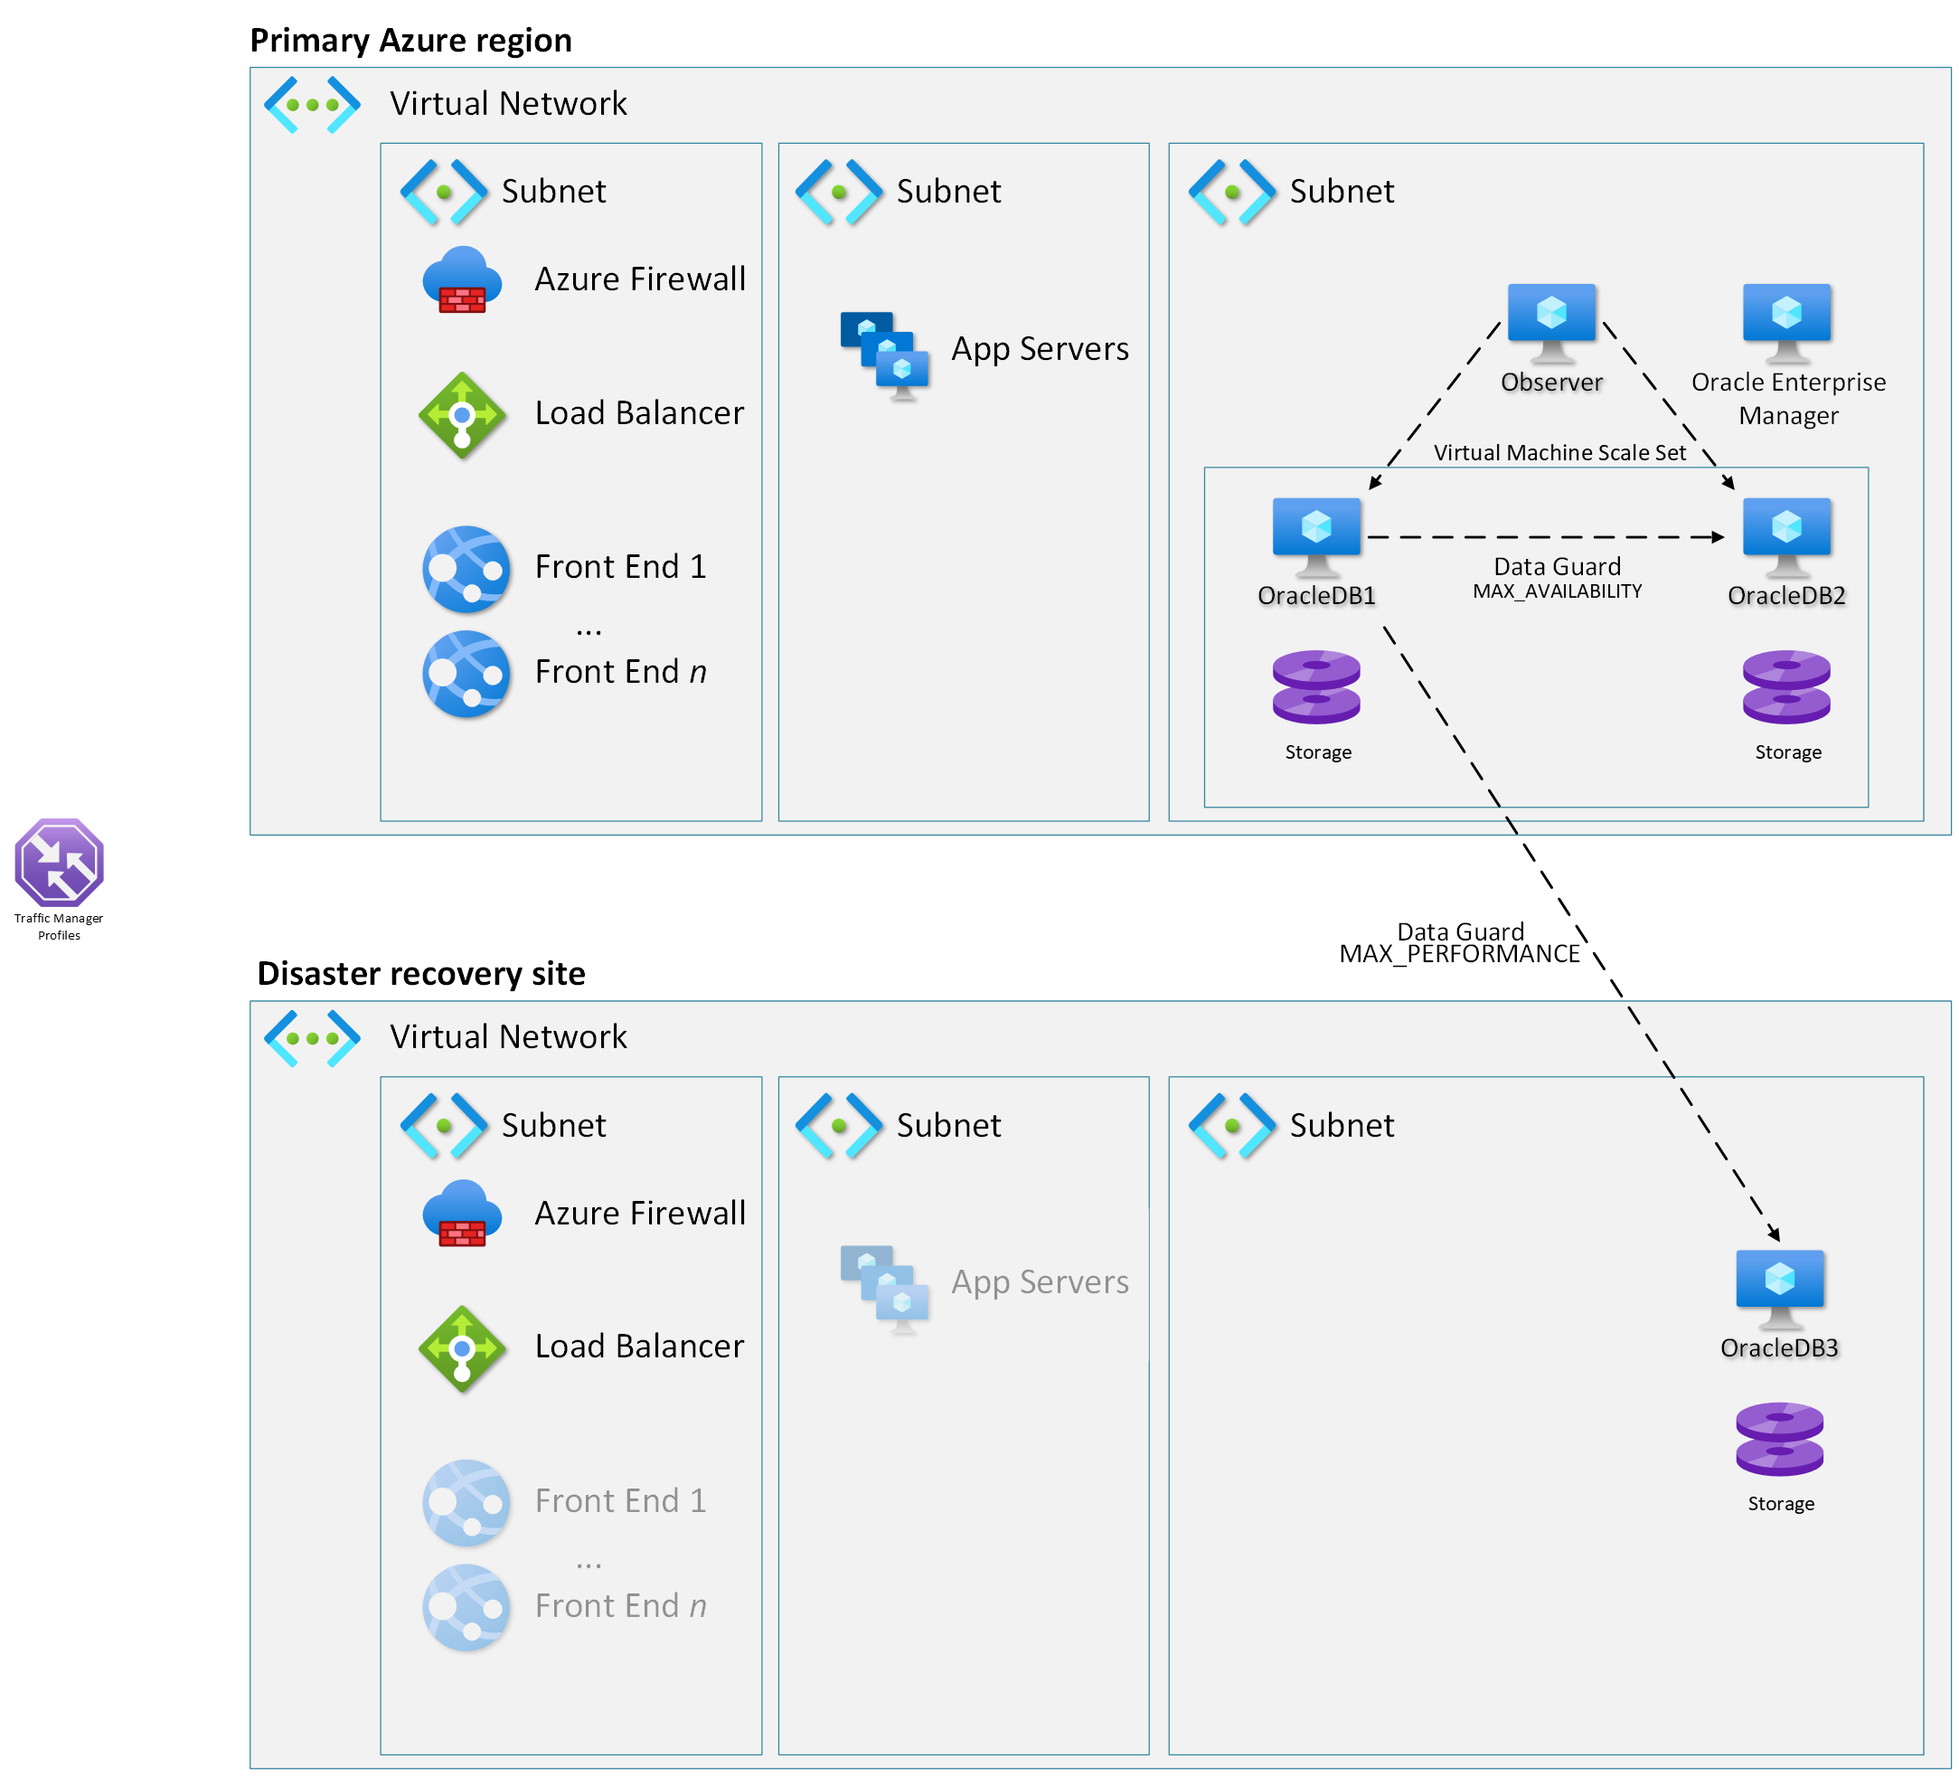
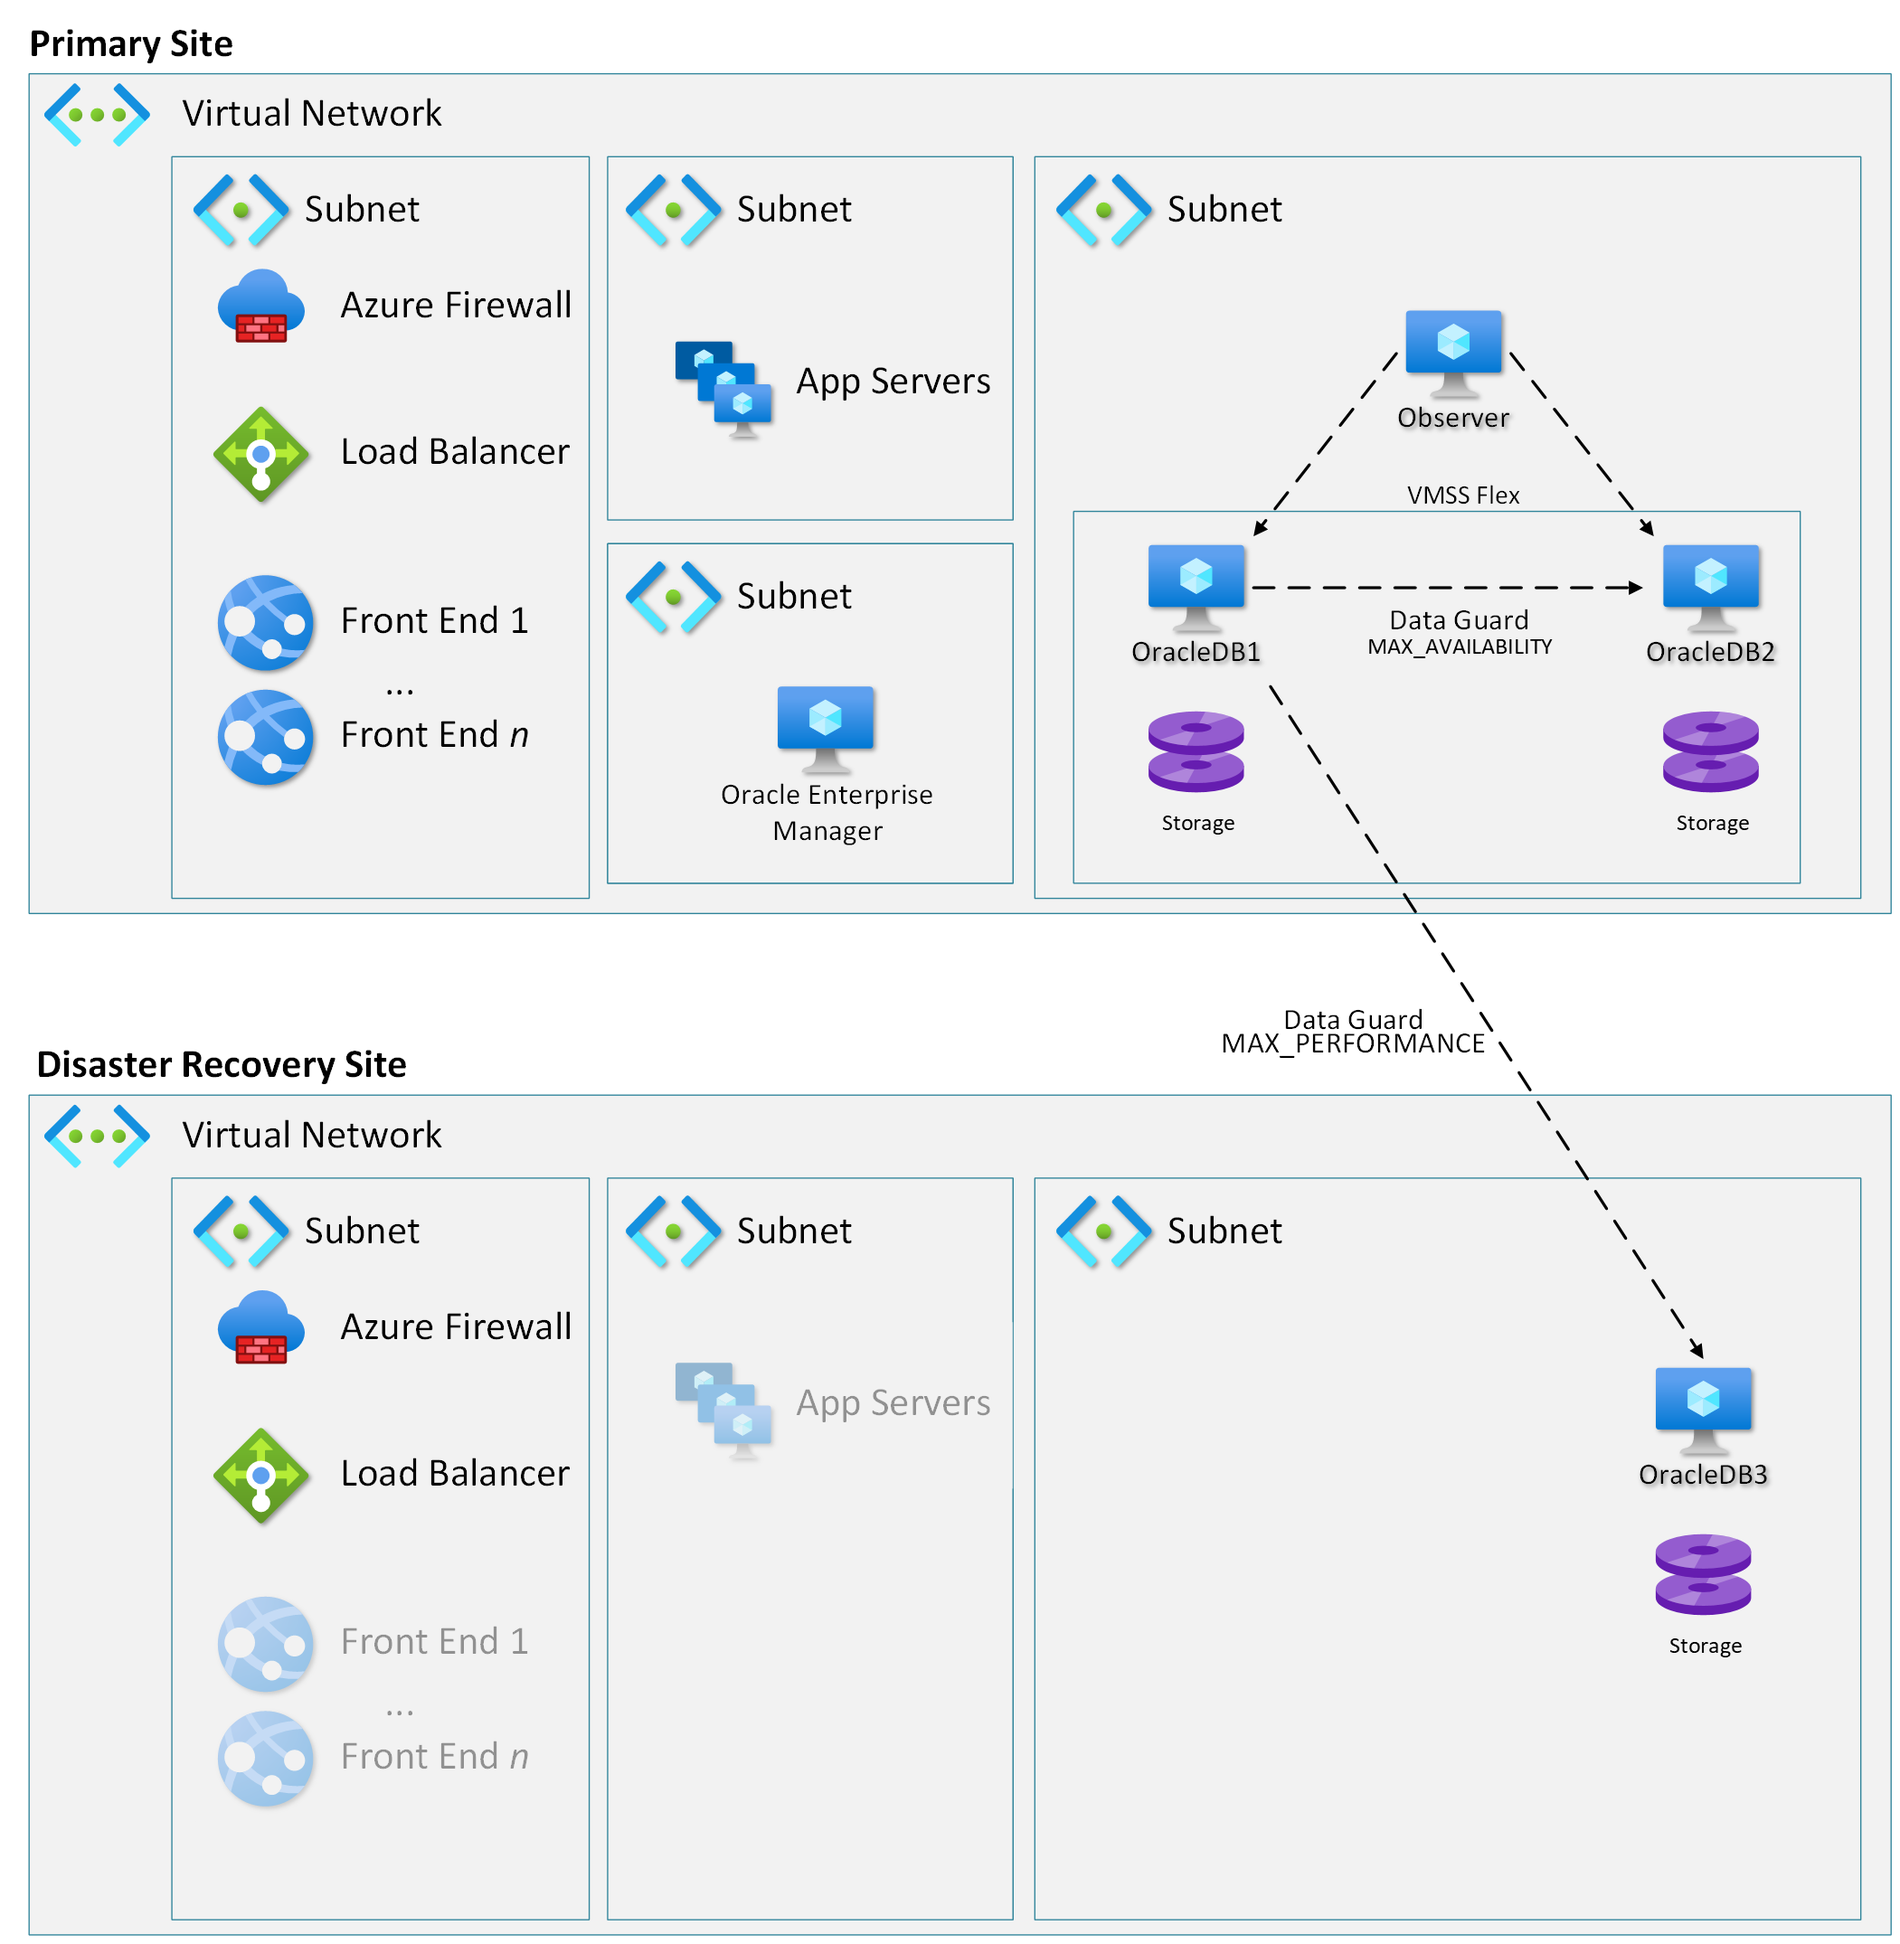
added some clarification on HA and DR. plus fixe VMSS Flex in diagrams

diff --git a/docs/scenarios/oracle-iaas/oracle-disaster-recovery-oracle-landing-zone.md b/docs/scenarios/oracle-iaas/oracle-disaster-recovery-oracle-landing-zone.md
@@ -167,11 +167,11 @@ It's also recommended to automate failover procedures to ensure  enterprise stan
 
 ### Network topology for service protection and data protection
 
-Achieving high availability and disaster recovery requires a financial and business decision that balances the recovery time (RTO) and the potential data loss (RPO) against the other Oracle licensing, virtual machine servicing and data transfer costs to implement. Hosting a workload on a single Azure virtual machine offers basic protection for common hardware failure and delivers the least costly solution. However, because a failure on a single virtual machine is likely to cause downtime and data loss, production environments should include a secondary Oracle database hosted on a separate virtual machine with Oracle Data Guard. Configure the data guard properly for data replication with one or more of the following architectures, depending on your requirements.
+Achieving high availability and disaster recovery requires a financial and business decision that balances the recovery time (RTO) and the potential data loss (RPO) against the other Oracle licensing, virtual machine servicing and data transfer costs to implement. Hosting a workload on a single Azure virtual machine offers basic protection for common hardware failure and delivers the least costly solution. However, because a failure on a single virtual machine is likely to cause downtime and data loss, production environments should include, at the minimum, one secondary Oracle database hosted on a separate virtual machine with Oracle Data Guard. Configure the data guard properly for data replication with one or more of the following architectures, depending on your requirements.
 
-- **Optimal RTO and RPO**. To minimize latency, incorporate a secondary Oracle database on a separate virtual machine within the same VMSS Flex and same availability zone as the primary database.
-- **Data protection from a data center failure**. Placing the secondary virtual machine in a second data center increases data protection in the event an entire data center fails. Latency between the primary and secondary database can be as much as 2 ms, which could affect performance, RTO and RPO.
-- **Data protection from a regional failure**. To extend protection to prevent data loss from an Azure regional failure, the secondary database can be placed in another region. As latency between regions can be between 30 ms and 300 ms, the impact on the production workload and RTO and RPO can increase. Estimate this latency in advance.
+- **Optimal RTO and RPO**. To minimize latency, incorporate a secondary Oracle database on a separate virtual machine within the same VMSS Flex and same availability zone as the primary database. This achieves high availability with protection against a single instance failure.
+- **Data protection from a data center failure**. Placing the secondary Oracle database in a second data center (Availability Zone) provides a high availability set-up with protection in the event an entire data center (Availability Zone) fails. Latency between the primary and secondary database can be as much as 2 ms, which could affect performance, RTO and RPO. T
+- **Data protection from a regional failure**. To extend protection to prevent data loss from an Azure regional failure, the secondary database can be placed in another region. As latency between regions can be between 30 ms and 300 ms, the impact on the production workload and RTO and RPO can increase making this scenario useful for regional disaster recovery rather than high availability. 
 
 Business continuity requires an integrated approach that includes all components of the workload. Network infrastructure is a primary component for any workload on Azure and it needs to align with the high availability and disaster recovery architecture.
 
